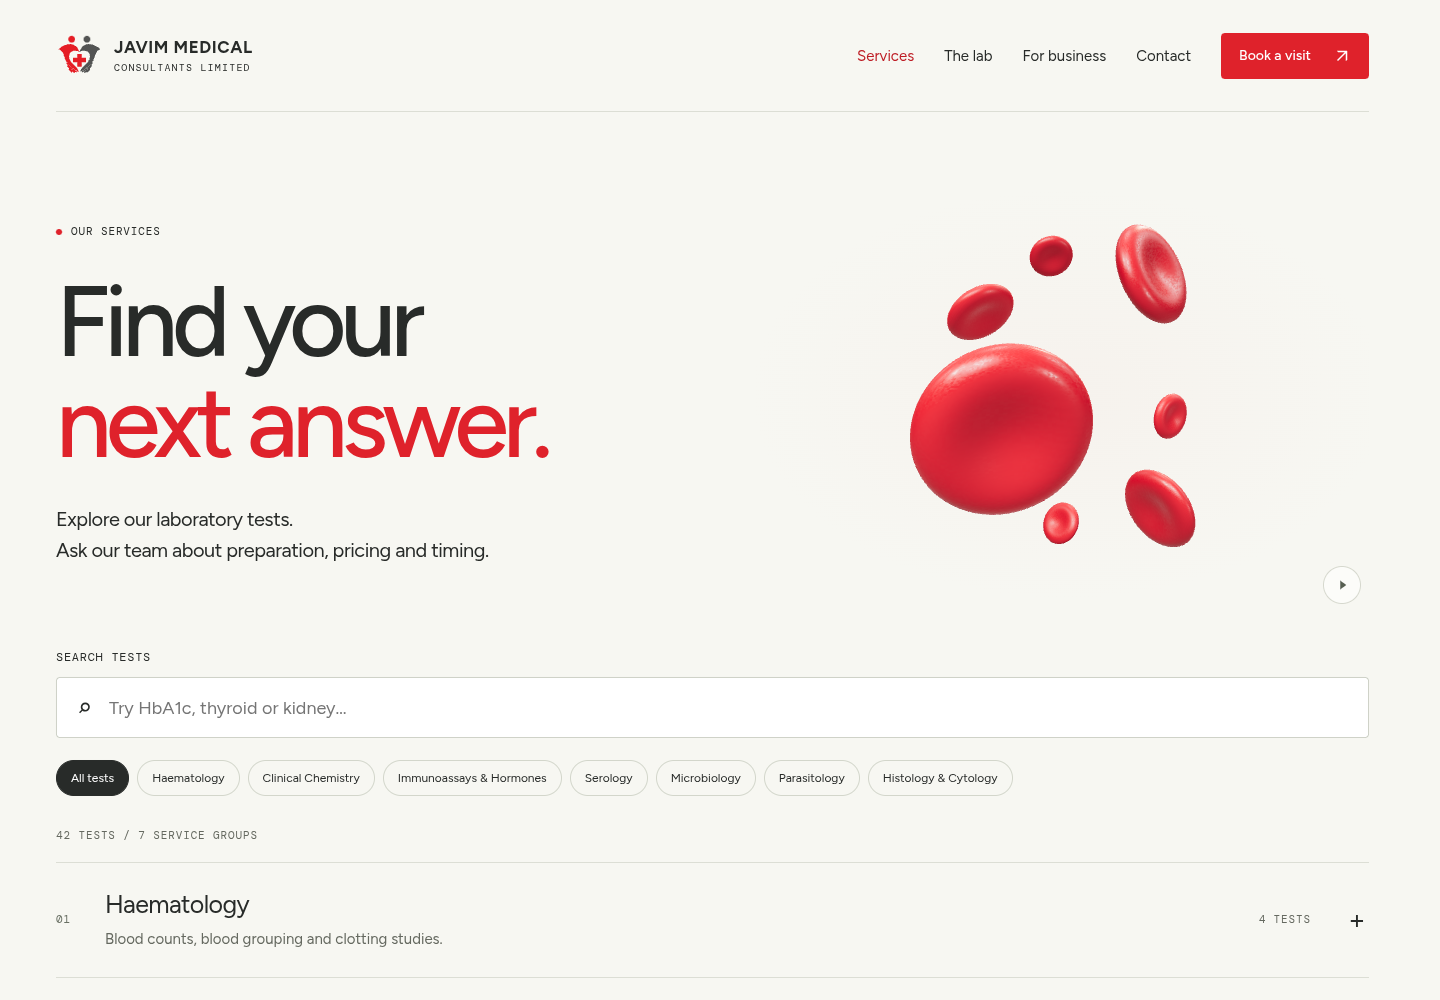
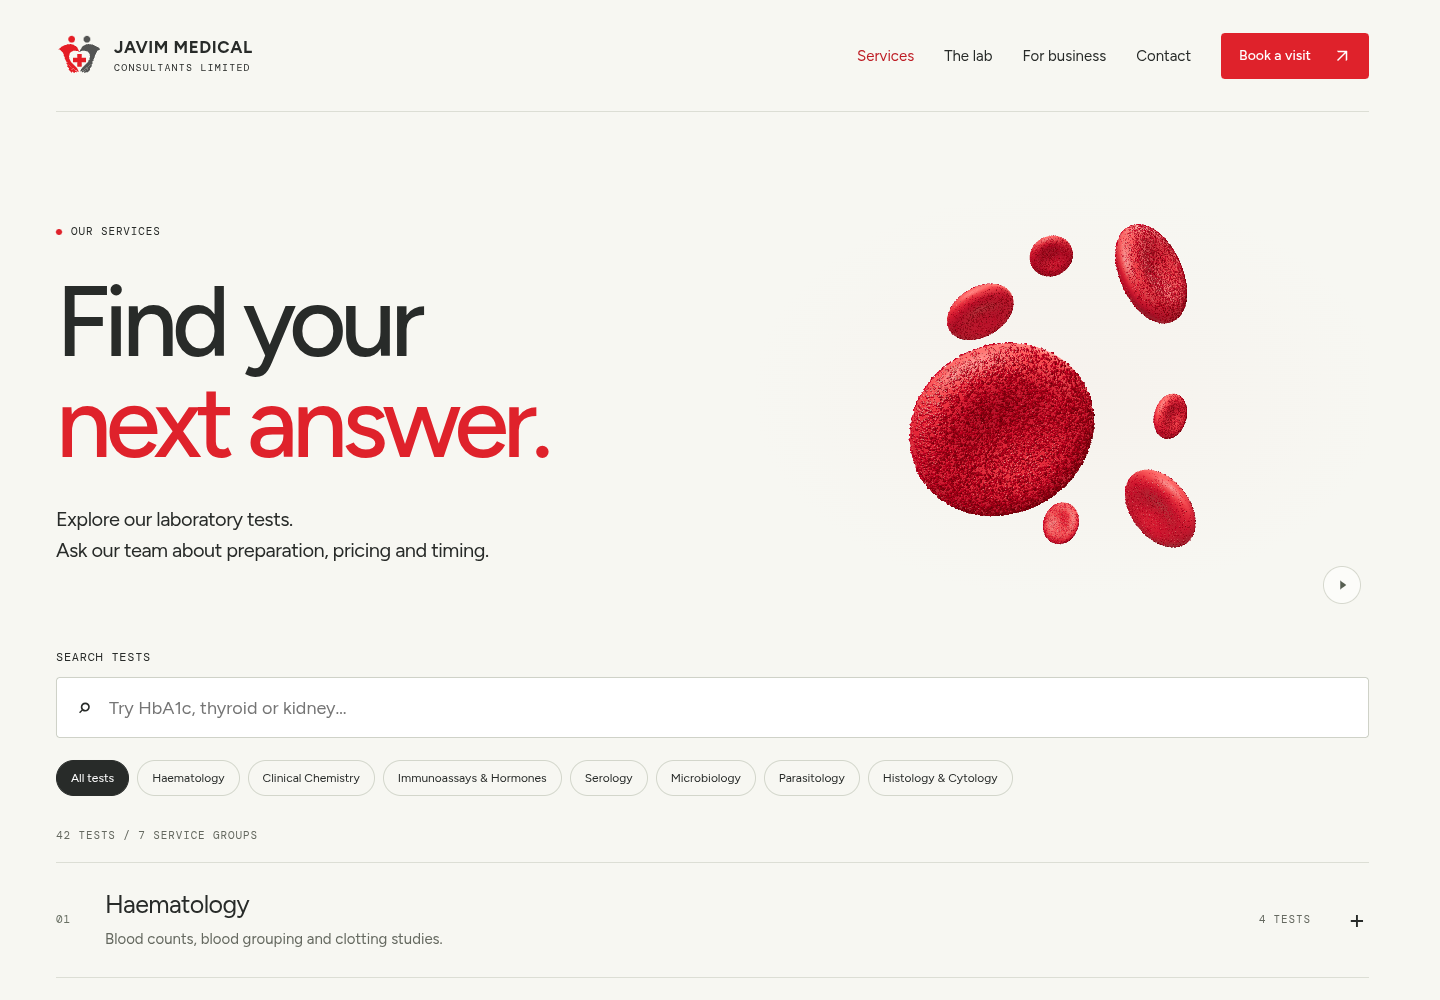
Add dense shaded surface grains to the floating blood cells

diff --git a/src/blood-cells.js b/src/blood-cells.js
@@ -24,6 +24,38 @@ function membraneTexture(){
  }
  context.putImageData(pixels,0,0);const texture=new THREE.CanvasTexture(canvas);texture.wrapS=texture.wrapT=THREE.RepeatWrapping;texture.anisotropy=4;return texture;
 }
+// GPU sphere impostors add visible grains without tens of thousands of meshes.
+function surfaceGrains(count, seed, pointScale){
+ const random=()=>{seed=(seed*1664525+1013904223)>>>0;return seed/4294967296;};
+ const height=r=>Math.sqrt(Math.max(0,1-r*r))*(.18+.95*r*r-.55*r*r*r*r)*.65;
+ const positions=new Float32Array(count*3),normals=new Float32Array(count*3),sizes=new Float32Array(count),shades=new Float32Array(count);
+ for(let i=0;i<count;i++){
+  const r=Math.sqrt(random())*.998,a=random()*Math.PI*2,side=random()<.5?-1:1,x=r*Math.cos(a),y=r*Math.sin(a);
+  const slope=(height(Math.min(.999,r+.001))-height(Math.max(0,r-.001)))/.002;
+  const n=new THREE.Vector3(-slope*Math.cos(a),-slope*Math.sin(a),side).normalize();
+  const relief=(random()-.2)*.009;
+  positions.set([x+n.x*relief,y+n.y*relief,side*height(r)+n.z*relief],i*3);normals.set([n.x,n.y,n.z],i*3);
+  sizes[i]=.014+Math.pow(random(),2)*.022;shades[i]=random();
+ }
+ const geometry=new THREE.BufferGeometry();geometry.setAttribute('position',new THREE.BufferAttribute(positions,3));geometry.setAttribute('normal',new THREE.BufferAttribute(normals,3));geometry.setAttribute('grainSize',new THREE.BufferAttribute(sizes,1));geometry.setAttribute('shade',new THREE.BufferAttribute(shades,1));
+ const material=new THREE.ShaderMaterial({uniforms:{pointScale:{value:pointScale}},vertexShader:`
+ attribute float grainSize;attribute float shade;uniform float pointScale;varying vec3 vNormal;varying float vShade;
+ void main(){vec4 p=modelViewMatrix*vec4(position,1.);vNormal=normalize(normalMatrix*normal);vShade=shade;
+ float scale=length(modelMatrix[0].xyz);gl_PointSize=clamp(grainSize*scale*pointScale/-p.z,1.,12.);gl_Position=projectionMatrix*p;}`,
+ fragmentShader:`
+ varying vec3 vNormal;varying float vShade;
+ void main(){vec2 p=gl_PointCoord*2.-1.;float r=dot(p,p);if(r>1.||vNormal.z<-.05)discard;
+ vec3 grain=vec3(p.x,-p.y,sqrt(max(0.,1.-r)));vec3 n=normalize(vNormal*.7+grain*.7);
+ vec3 light=normalize(vec3(-.65,.85,1.));float diffuse=max(0.,dot(n,light));
+ float spec=pow(max(0.,dot(n,normalize(light+vec3(0.,0.,1.)))),20.);
+ vec3 red=mix(vec3(.23,.004,.012),vec3(.72,.016,.035),vShade*.6+.2);
+ vec3 color=red*(.48+diffuse*.92)+vec3(1.,.72,.62)*spec*.36;
+ gl_FragColor=vec4(color,1.);
+ #include <tonemapping_fragment>
+ #include <colorspace_fragment>
+ }`});
+ return new THREE.Points(geometry,material);
+}
 export function mountBloodCells(container){
  const toggle=document.querySelector('#blood-motion-toggle'),fallback=container.querySelector('.blood-fallback');
  let renderer;
@@ -37,14 +69,18 @@ export function mountBloodCells(container){
  for(const [color,intensity,x,y,z] of [[0xfff8f2,3,-4,5,6],[0xffffff,.8,5,0,3],[0xffb0a0,2.3,2,4,-4]]){const light=new THREE.DirectionalLight(color,intensity);light.position.set(x,y,z);scene.add(light);}
  const geometry=membraneGeometry(),texture=membraneTexture(),group=new THREE.Group();scene.add(group);
  const specifications=[[-.8,-.6,1.3,1.45,.42,.3],[1.4,1.5,-.1,.9,-.6,.8],[-1.8,1.9,-2,.72,.8,.5],[1.9,-1.7,-1,.8,.55,-.8],[-1.9,-2.1,-2.5,.58,-.7,.6],[.2,2.9,-3.5,.5,.9,.2],[2.6,.1,-3,.5,.3,.7],[-.1,-3,-4,.48,-.6,-.6]];
+ let totalGrains=0;
  const cells=specifications.slice(0,compact?5:8).map(([x,y,z,scale,rx,ry],index)=>{
-  const material=new THREE.MeshPhysicalMaterial({color:index%2?0xa90c20:0xb70d23,roughness:.5,metalness:0,bumpMap:texture,bumpScale:.04,roughnessMap:texture,clearcoat:.1,clearcoatRoughness:.65,envMapIntensity:.4,transparent:true});
-  const mesh=new THREE.Mesh(geometry,material);mesh.scale.setScalar(scale);mesh.rotation.set(rx,ry,index*.7);group.add(mesh);return {mesh,x,y,z,rx,ry,index};
+  const material=new THREE.MeshPhysicalMaterial({color:index%2?0xa90c20:0xb70d23,roughness:.85,metalness:0,bumpMap:texture,bumpScale:.04,roughnessMap:texture,clearcoat:0,clearcoatRoughness:.65,envMapIntensity:.2,transparent:true});
+  const mesh=new THREE.Mesh(geometry,material);mesh.scale.setScalar(scale);mesh.rotation.set(rx,ry,index*.7);group.add(mesh);
+  const grainCount=compact?(index===0?12000:3500):(index===0?28000:index===1?14000:4500);
+  const grains=surfaceGrains(grainCount,193+index*719,1);mesh.add(grains);totalGrains+=grainCount;
+  return {mesh,grains,x,y,z,rx,ry,index};
  });
  const media=matchMedia('(prefers-reduced-motion:reduce)');let paused=media.matches,visible=true,elapsed=0,previous=0,frame=0,dirty=true;
  const pointer=new THREE.Vector2(),target=new THREE.Vector2();
  function updateButton(){toggle.setAttribute('aria-label',paused?'Play blood cell animation':'Pause blood cell animation');toggle.setAttribute('aria-pressed',String(paused));toggle.innerHTML=paused?'<svg viewBox="0 0 16 16" aria-hidden="true"><path d="m6 3 7 5-7 5Z" fill="currentColor"/></svg>':'<svg viewBox="0 0 16 16" aria-hidden="true"><path d="M5 3v10M11 3v10" stroke="currentColor" stroke-width="2"/></svg>';container.dataset.paused=String(paused);}
- function resize(){const {width,height}=container.getBoundingClientRect();if(!width||!height)return;renderer.setSize(width,height);camera.aspect=width/height;camera.updateProjectionMatrix();dirty=true;start();}
+ function resize(){const {width,height}=container.getBoundingClientRect();if(!width||!height)return;renderer.setSize(width,height);for(const c of cells)c.grains.material.uniforms.pointScale.value=height*renderer.getPixelRatio()/(2*Math.tan(THREE.MathUtils.degToRad(34/2)));camera.aspect=width/height;camera.updateProjectionMatrix();dirty=true;start();}
  function draw(now){
   frame=0;const dt=previous?Math.min((now-previous)/1000,.05):0;previous=now;
   if(!paused)elapsed+=dt;
@@ -63,5 +99,5 @@ export function mountBloodCells(container){
  document.addEventListener('visibilitychange',()=>{if(document.hidden){cancelAnimationFrame(frame);frame=0;}else start();});
  const resizeObserver=new ResizeObserver(resize);resizeObserver.observe(container);
  renderer.domElement.addEventListener('webglcontextlost',event=>{event.preventDefault();cancelAnimationFrame(frame);frame=0;visible=false;renderer.domElement.hidden=true;fallback.hidden=false;toggle.hidden=true;container.dataset.status='fallback';});
- updateButton();resize();renderer.render(scene,camera);fallback.hidden=true;container.dataset.status='ready';container.dataset.cellCount=String(cells.length);start();
+ updateButton();resize();renderer.render(scene,camera);fallback.hidden=true;container.dataset.status='ready';container.dataset.cellCount=String(cells.length);container.dataset.grainCount=String(totalGrains);start();
 }

diff --git a/tests/browser/blood-cells.spec.js b/tests/browser/blood-cells.spec.js
@@ -1,7 +1,7 @@
 import {test,expect} from '@playwright/test';
 test('transparent blood cell scene pauses, resumes and leaves the catalogue usable',async({page})=>{
  const errors=[];page.on('pageerror',e=>errors.push(e.message));await page.emulateMedia({reducedMotion:'reduce'});await page.goto('/services');
- const scene=page.locator('#blood-scene');await expect(scene).toHaveAttribute('data-status','ready',{timeout:30000});await expect(scene).toHaveAttribute('data-cell-count','8');
+ const scene=page.locator('#blood-scene');await expect(scene).toHaveAttribute('data-status','ready',{timeout:30000});await expect(scene).toHaveAttribute('data-cell-count','8');await expect(scene).toHaveAttribute('data-grain-count','69000');
  const toggle=page.getByRole('button',{name:'Play blood cell animation'});await expect(toggle).toBeVisible();
  expect(await scene.locator('canvas').evaluate(c=>{const gl=c.getContext('webgl2');return gl.getContextAttributes().alpha&&gl.getParameter(gl.COLOR_CLEAR_VALUE)[3]===0;})).toBe(true);
  const time=await scene.getAttribute('data-time');await page.waitForTimeout(200);await expect(scene).toHaveAttribute('data-time',time);
@@ -9,7 +9,7 @@ test('transparent blood cell scene pauses, resumes and leaves the catalogue usab
  await page.locator('#test-search').fill('cbc');await expect(page.locator('.test-row h3')).toHaveText('Full Hemogram');expect(errors).toEqual([]);
 });
 test('mobile cells keep search and heading available and use fewer meshes',async({page})=>{
- await page.setViewportSize({width:390,height:844});await page.emulateMedia({reducedMotion:'reduce'});await page.goto('/services');await expect(page.locator('#blood-scene')).toHaveAttribute('data-cell-count','5',{timeout:30000});expect(await page.evaluate(()=>document.documentElement.scrollWidth<=innerWidth)).toBe(true);
+ await page.setViewportSize({width:390,height:844});await page.emulateMedia({reducedMotion:'reduce'});await page.goto('/services');await expect(page.locator('#blood-scene')).toHaveAttribute('data-cell-count','5',{timeout:30000});await expect(page.locator('#blood-scene')).toHaveAttribute('data-grain-count','26000');expect(await page.evaluate(()=>document.documentElement.scrollWidth<=innerWidth)).toBe(true);
  await page.locator('#test-search').fill('thyroid');await expect(page.locator('.test-row h3')).toHaveText('Thyroid Function Tests');
 });
 test('catalogue retains a static blood cell illustration without WebGL',async({page})=>{

diff --git a/README.md b/README.md
@@ -6,11 +6,13 @@ A minimalist, responsive laboratory website built with Vite, vanilla JavaScript 
 
 ### Services-page blood cells
 
-A transparent, lazy-loaded Three.js scene sits beside “Find your next answer.” Eight biconcave cells (five on mobile) use high-resolution membrane geometry, fine procedural bump texture, studio lighting and independent slow drifting/rotation. Pointer movement gently changes the viewing angle. This is a conceptual scientific rendering, not a clinical micrograph or a physically simulated bloodstream.
+A transparent, lazy-loaded Three.js scene sits beside “Find your next answer.” Eight biconcave cells (five on mobile) use high-resolution membrane geometry, fine procedural bump texture, studio lighting and independent slow drifting/rotation. A dense layer of GPU-shaded surface grains adds visible relief: 69,000 on desktop and 26,000 on mobile. These use sphere-impostor points attached to the membranes, not billions of simulated particles. Lower gloss keeps the surfaces granular. Pointer movement gently changes the viewing angle. This is a conceptual scientific rendering, not a clinical micrograph or a physically simulated bloodstream.
 
 The animation pauses off-screen and when the tab is hidden. A pause/play control is available; reduced-motion preferences start the scene paused. WebGL failure retains the existing static blood-cell illustration and leaves catalogue search usable.
 
 ![Services introduction with floating red blood cells](docs/screenshots/services-blood-cells.png)
+
+![Close-up of granular red blood cells](docs/screenshots/blood-cells-grain.png)
 
 <img src="docs/screenshots/services-blood-cells-mobile.png" alt="Mobile services introduction" width="390" />
 
